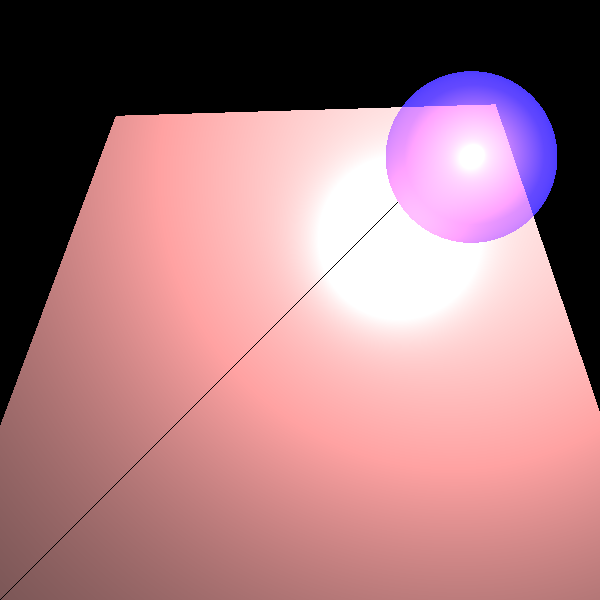
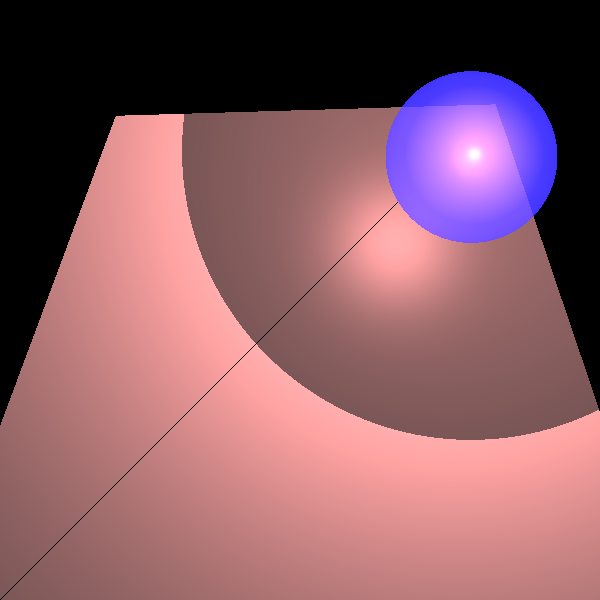
תרגיל 7 סופי

Changed region(s): [[0.3, 0.12, 1.0, 0.75]]

diff --git a/src/renderer/BasicRayTracer.java b/src/renderer/BasicRayTracer.java
@@ -24,28 +24,24 @@ public class BasicRayTracer extends RayTracerBase {
      * @param scene
      */
     public BasicRayTracer(Scene scene) {
+
         super(scene);
     }
 
     /**
      * this methode get ray, and calculate the color of the closest intersection
-     *
      * @param ray
      * @return the colour of the closest point
      */
     @Override
     public Color traceRay(Ray ray) {
-//        List<GeoPoint> intersections = _scene.geometries.findGeoIntersections(ray);
-//        if (intersections == null) return _scene.backGroundColor;
-//        GeoPoint closestPoint = ray.findClosestGeoPoint(intersections);
-//        return calcColor(closestPoint, ray);
-        GeoPoint closestPoint =findClosestIntersection( ray);
+        GeoPoint closestPoint = findClosestIntersection(ray);
         if (closestPoint == null) return _scene.backGroundColor;
         return calcColor(closestPoint, ray);
     }
 
     /**
-     * calculate the color of the point
+     * calculate the ambientLight of the point
      *
      * @param geoPoint
      * @return the color of the point
@@ -55,14 +51,30 @@ public class BasicRayTracer extends RayTracerBase {
                 .add(_scene.ambientLight.getIntensity());
     }
 
+    /**
+     * calculate the color of the point according to local and global effects
+     * @param geoPoint
+     * @param ray
+     * @param level
+     * @param k
+     * @return
+     */
     private Color calcColor(GeoPoint geoPoint, Ray ray, int level, double k) {
         Color color = geoPoint.geometry.getEmission();
-        color = color.add(calcLocalEffects(geoPoint, ray));
+        color = color.add(calcLocalEffects(geoPoint, ray,k));
         return 1 == level ? color : color.add(calcGlobalEffects(geoPoint, ray, level, k));
 
     }
 
-        private Color calcGlobalEffects(GeoPoint geoPoint, Ray ray, int level, double k) {
+    /**
+     * calculate the color of point according to refraction and reflection
+     * @param geoPoint
+     * @param ray
+     * @param level depth of recursion
+     * @param k intensity of the refraction or reflection
+     * @return
+     */
+    private Color calcGlobalEffects(GeoPoint geoPoint, Ray ray, int level, double k) {
         Color color = Color.BLACK;
         Material material = geoPoint.geometry.getMaterial();
         double kr = material.kR;
@@ -85,51 +97,44 @@ public class BasicRayTracer extends RayTracerBase {
         }
         return color;
     }
-//    private Color calcGlobalEffects(GeoPoint gp, Ray ray, int level, double k) {
-//        Color color = Color.BLACK;
-//        Vector n = gp.geometry.getNormal(gp.point);
-//        Material material = gp.geometry.getMaterial();
-//        double kkr = k * material.kR;
-//        if (kkr > MIN_CALC_COLOR_K) {
-//            color = calcGlobalEffect(constructReflectedRay(gp, ray),
-//                    level, material.kR, kkr);
-//        }
-//        double kkt = k * material.kT;
-//        if (kkt > MIN_CALC_COLOR_K) {
-//            color = color.add(calcGlobalEffect(constructRefractedRay(gp, ray), level, material.kT, kkt));
-//        }
-//        return color;
-//    }
-//
-//    private Color calcGlobalEffect(Ray ray, int level, double kx, double kkx) {
-//        GeoPoint gp = ray.findClosestGeoPoint(_scene.geometries.findGeoIntersections(ray));
-//        //findClosestIntersection (ray);
-//        return (gp == null ? _scene.backGroundColor : calcColor(gp, ray, level - 1, kkx)).scale(kx);
-//    }
 
+    /**
+     * calculate the Refracted Ray to the point
+     * @param geoPoint
+     * @param ray
+     * @return
+     */
     private Ray constructRefractedRay(GeoPoint geoPoint, Ray ray) {
-        Vector n=geoPoint.geometry.getNormal(geoPoint.point);
-        return new Ray(geoPoint.point, ray.getDir(),n);
+        Vector n = geoPoint.geometry.getNormal(geoPoint.point);
+        return new Ray(geoPoint.point, ray.getDir(), n);
     }
 
+    /**
+     * calculate the Reflected Ray to the point
+     * @param geoPoint
+     * @param ray
+     * @return
+     */
     private Ray constructReflectedRay(GeoPoint geoPoint, Ray ray) {
         Vector n = geoPoint.geometry.getNormal(geoPoint.point);
         Vector v = ray.getDir();
         //if v is orthogonal to n the  reflected ray direction is in the same  direction of v
         if (alignZero(n.dotProduct(v)) == 0) {
-            return new Ray(geoPoint.point, v,n);
+            return new Ray(geoPoint.point, v, n);
         }
         Vector r = v.subtract(n.scale(2 * v.dotProduct(n)));//the reflected ray
-        return new Ray(geoPoint.point, r,n);
+        return new Ray(geoPoint.point, r, n);
     }
-//    private Color calcColor(GeoPoint geoPoint, Ray ray) {
-//
-//        return _scene.ambientLight.getIntensity()
-//                .add(geoPoint.geometry.getEmission())
-//                .add(calcLocalEffects(geoPoint, ray));
-//    }
 
-    private Color calcLocalEffects(GeoPoint geoPoint, Ray ray) {
+
+    /**
+     * calculate the color of point according to diffusion, specular and shininess
+     * @param geoPoint
+     * @param ray
+     * @param k
+     * @return
+     */
+    private Color calcLocalEffects(GeoPoint geoPoint, Ray ray,double k) {
         Vector v = ray.getDir();
         Vector n = geoPoint.geometry.getNormal(geoPoint.point);
         double nv = alignZero(n.dotProduct(v));
@@ -142,8 +147,9 @@ public class BasicRayTracer extends RayTracerBase {
             Vector l = lightSource.getL(geoPoint.point);
             double nl = alignZero(n.dotProduct(l));
             if (nl * nv > 0) { // sign(nl) == sing(nv)
-                if (unshaded(lightSource, geoPoint)) {
-                    Color lightIntensity = lightSource.getIntensity(geoPoint.point);
+                double ktr=transparency(lightSource,l,n,geoPoint);
+                if (ktr * k > MIN_CALC_COLOR_K) {
+                    Color lightIntensity = lightSource.getIntensity(geoPoint.point).scale(ktr);
                     color = color.add(calcDiffusive(kd, l, n, lightIntensity),
                             calcSpecular(ks, l, n, v, nShininess, lightIntensity));
                 }
@@ -152,24 +158,48 @@ public class BasicRayTracer extends RayTracerBase {
         return color;
     }
 
-    private boolean unshaded(LightSource lightSource, GeoPoint geoPoint) {
-        Point3D point = geoPoint.point;
-        Vector l = lightSource.getL(point).scale(-1).normalized();
-        Vector n = geoPoint.geometry.getNormal(point);
-//        Vector delta = n.scale(n.dotProduct(l) > 0 ? DELTA : -DELTA);
-//        point = point.add(delta);
-        Ray lightRay = new Ray(point, l,n);//ray from the point to the ray
-        List<GeoPoint> intersections = _scene.geometries.findGeoIntersections(lightRay, lightSource.getDistance(point));
-        if (intersections == null) {
-            return true;
-        }
-        for (var gp : intersections) {//if all kt is 0, the point is unshaded
-            if (gp.geometry.getMaterial().kT != 0)
-                return true;
-        }
-        return false;
-    }
+//    private boolean unshaded(LightSource lightSource, GeoPoint geoPoint) {
+//        Point3D point = geoPoint.point;
+//        Vector l = lightSource.getL(point).scale(-1).normalized();
+//        Vector n = geoPoint.geometry.getNormal(point);
+//        Ray lightRay = new Ray(point, l, n);//ray from the point to the ray
+//        List<GeoPoint> intersections = _scene.geometries.findGeoIntersections(lightRay, lightSource.getDistance(point));
+//        if (intersections == null) {
+//            return true;
+//        }
+//        for (var gp : intersections) {//if all kt is 0, the point is unshaded
+//            if (gp.geometry.getMaterial().kT != 0)
+//                return true;
+//        }
+//        return false;
+//    }
 
+    /**
+     * calculate the intensity of lightSource on point
+     * @param lightSource
+     * @param l light direction
+     * @param n normal of the point
+     * @param geoPoint
+     * @return the intensity of lightSource on point
+     */
+    private double transparency(LightSource lightSource, Vector l, Vector n, GeoPoint geoPoint) {
+        Point3D point = geoPoint.point;
+        Vector lightDirection = l.scale(-1).normalize();
+        Ray lightRay = new Ray(point, lightDirection, n);//ray from the point to the ray
+        double lightDistance = lightSource.getDistance(point);
+        List<GeoPoint> intersections = _scene.geometries.findGeoIntersections(lightRay, lightDistance);
+        if (intersections == null) {
+            return 1d;
+        }
+        double ktr = 1d;
+        for (var gp : intersections) {//if all kt is 0, the point is unshaded
+            ktr *= gp.geometry.getMaterial().kT;
+            if (ktr < MIN_CALC_COLOR_K) {
+                return 0d;
+            }
+        }
+        return ktr;
+    }
 
     /**
      * calculate the specular color of specific light source
@@ -204,11 +234,10 @@ public class BasicRayTracer extends RayTracerBase {
     }
 
     /**
-     *
      * @param ray
      * @return the closest geoPoint intersection
      */
-    private GeoPoint findClosestIntersection(Ray ray){
+    private GeoPoint findClosestIntersection(Ray ray) {
         return ray.findClosestGeoPoint(_scene.geometries.findGeoIntersections(ray));
     }
 }

diff --git a/tests/renderer/PictureTest.java b/tests/renderer/PictureTest.java
@@ -1,0 +1,115 @@
+package renderer;
+
+import elements.AmbientLight;
+import elements.Camera;
+import elements.PointLight;
+import elements.SpotLight;
+import geometries.Geometries;
+import geometries.Plane;
+import geometries.Sphere;
+import geometries.Triangle;
+import org.junit.jupiter.api.Test;
+import primitives.Color;
+import primitives.Material;
+import primitives.Point3D;
+import primitives.Vector;
+import scene.Scene;
+
+public class PictureTest {
+    @Test
+    public void transparancyRefractionReflection(){
+         Scene scene = new Scene("Test scene");
+         Camera camera = new Camera(new Point3D(-2, 2, 0), new Vector(1, -0.5, 0), new Vector(0, 0, 1)) //
+                .setViewPlaneSize(10, 10).setDistance(5);
+         scene.geometries=new Geometries(
+                 new Triangle(new Point3D(1.17,0.04,-1.5), new Point3D(0.78047,0.70034,0), new Point3D(1.62883,0.6836,0))
+                         .setEmission(new Color(0,0,255)).setMaterial(new Material().setkD(0.5)//
+                         .setkS(0.5).setnShininess(30).setkR(0.5).setkT(0.25)),//JCF,//JEF
+                 new Triangle(new Point3D(1.17,0.04,-1.5), new Point3D(0.78047,0.70034,0), new Point3D(0.36,0,0))
+                         .setEmission(new Color(0,0,255)).setMaterial(new Material().setkD(0.5)//
+                         .setkS(0.5).setnShininess(30).setkR(0.5).setkT(0.25)),//JCF,//JED
+                 new Triangle(new Point3D(1.17,0.04,-1.5), new Point3D(0.77765,-0.58962,0), new Point3D(0.36,0,0))
+                         .setEmission(new Color(0,0,255)).setMaterial(new Material().setkD(0.5)//
+                         .setkS(0.5).setnShininess(30).setkR(0.5).setkT(0.25)),//JCF,//JAD
+                 new Triangle(new Point3D(1.17,0.04,-1.5), new Point3D(0.77765,-0.58962,0), new Point3D (1.56646,-0.61367,0))
+                         .setEmission(new Color(0,0,255)).setMaterial(new Material().setkD(0.5)//
+                         .setkS(0.5).setnShininess(30).setkR(0.5).setkT(0.25)),//JCF,//JAB
+                 new Triangle(new Point3D(1.17,0.04,-1.5), new Point3D(2,0,0), new Point3D (1.56646,-0.61367,0))
+                         .setEmission(new Color(0,0,255)).setMaterial(new Material().setkD(0.5)//
+                         .setkS(0.5).setnShininess(30).setkR(0.5).setkT(0.25)),//JCF,//JCB
+        new Triangle(new Point3D(1.17,0.04,-1.5), new Point3D(2,0,0), new Point3D (1.62883,0.6836,0))
+                 .setEmission(new Color(0,0,255)).setMaterial(new Material().setkD(0.5)//
+                        .setkS(0.5).setnShininess(30).setkR(0.5).setkT(0.25)),//JCF
+        new Triangle(new Point3D(1.2, 0.69, 0), new Point3D(1.41,0.38,0.5), new Point3D(1.62883,0.6836,0))
+                .setEmission(new Color(0,0,255)).setMaterial(new Material().setkD(0.5)//
+                .setkS(0.5).setnShininess(30).setkR(0.5).setkT(0.25)),//JCF,//QNF
+        new Triangle(new Point3D(1.2, 0.69, 0), new Point3D(1.41,0.38,0.5), new Point3D(0.97,0.39,0.5))
+                .setEmission(new Color(0,0,255)).setMaterial(new Material().setkD(0.5)//
+                .setkS(0.5).setnShininess(30).setkR(0.5).setkT(0.25)),//JCF,//QNM
+        new Triangle(new Point3D(1.2, 0.69, 0), new Point3D(0.78047,0.70034,0), new Point3D (0.97,0.39,0.5))
+                .setEmission(new Color(0,0,255)).setMaterial(new Material().setkD(0.5)//
+                .setkS(0.5).setnShininess(30).setkR(0.5).setkT(0.25)),//JCF,//QEM
+        new Triangle(new Point3D(0.57, 0.35, 0), new Point3D(0.78047,0.70034,0), new Point3D (0.97,0.39,0.5))
+                .setEmission(new Color(0,0,255)).setMaterial(new Material().setkD(0.5)//
+                .setkS(0.5).setnShininess(30).setkR(0.5).setkT(0.25)),//JCF,//REM
+        new Triangle(new Point3D(0.57, 0.35, 0), new Point3D(0.81,0,0.5), new Point3D (0.97,0.39,0.5))
+                .setEmission(new Color(0,0,255)).setMaterial(new Material().setkD(0.5)//
+                .setkS(0.5).setnShininess(30).setkR(0.5).setkT(0.25)),//JCF,//RLM
+        new Triangle(new Point3D(0.57, 0.35, 0), new Point3D(0.81,0,0.5), new Point3D (0.36,0,0))
+                .setEmission(new Color(0,0,255)).setMaterial(new Material().setkD(0.5)//
+                .setkS(0.5).setnShininess(30).setkR(0.5).setkT(0.25)),//JCF,//RLD
+        new Triangle(new Point3D(0.57, -0.29, 0), new Point3D(0.81,0,0.5), new Point3D (0.36,0,0))
+                .setEmission(new Color(0,0,255)).setMaterial(new Material().setkD(0.5)//
+                .setkS(0.5).setnShininess(30).setkR(0.5).setkT(0.25)),//JCF,//SLD
+        new Triangle(new Point3D(0.57, -0.29, 0), new Point3D(0.81,0,0.5), new Point3D (0.97,-0.28,0.5))
+                .setEmission(new Color(0,0,255)).setMaterial(new Material().setkD(0.5)//
+                .setkS(0.5).setnShininess(30).setkR(0.5).setkT(0.25)),//JCF,//SLK
+        new Triangle(new Point3D(0.57, -0.29, 0), new Point3D(0.77765,-0.58962,0), new Point3D (0.97,-0.28,0.5))
+                .setEmission(new Color(0,0,255)).setMaterial(new Material().setkD(0.5)//
+                .setkS(0.5).setnShininess(30).setkR(0.5).setkT(0.25)),//JCF,//SAK
+        new Triangle(new Point3D(1.17, -0.6, 0), new Point3D(0.77765,-0.58962,0), new Point3D (0.97,-0.28,0.5))
+                .setEmission(new Color(0,0,255)).setMaterial(new Material().setkD(0.5)//
+                .setkS(0.5).setnShininess(30).setkR(0.5).setkT(0.25)),//JCF,//TAK
+        new Triangle(new Point3D(1.17, -0.6, 0), new Point3D(1.37,-0.29,0.5), new Point3D (0.97,-0.28,0.5))
+                .setEmission(new Color(0,0,255)).setMaterial(new Material().setkD(0.5)//
+                .setkS(0.5).setnShininess(30).setkR(0.5).setkT(0.25)),//JCF,//TPK
+        new Triangle(new Point3D(1.17, -0.6, 0), new Point3D(1.37,-0.29,0.5), new Point3D (1.56646,-0.61367,0))
+                .setEmission(new Color(0,0,255)).setMaterial(new Material().setkD(0.5)//
+                .setkS(0.5).setnShininess(30).setkR(0.5).setkT(0.25)),//JCF,//TPB
+        new Triangle(new Point3D(1.78, -0.31, 0), new Point3D(1.37,-0.29,0.5), new Point3D (1.56646,-0.61367,0))
+                .setEmission(new Color(0,0,255)).setMaterial(new Material().setkD(0.5)//
+                .setkS(0.5).setnShininess(30).setkR(0.5).setkT(0.25)),//JCF,//UPB
+        new Triangle(new Point3D(1.78, -0.31, 0), new Point3D(1.37,-0.29,0.5), new Point3D (1.59,0,0.5))
+                .setEmission(new Color(0,0,255)).setMaterial(new Material().setkD(0.5)//
+                .setkS(0.5).setnShininess(30).setkR(0.5).setkT(0.25)),//JCF,//UPO
+        new Triangle(new Point3D(1.78, -0.31, 0), new Point3D(2,0,0), new Point3D (1.59,0,0.5))
+                .setEmission(new Color(0,0,255)).setMaterial(new Material().setkD(0.5)//
+                .setkS(0.5).setnShininess(30).setkR(0.5).setkT(0.25)),//JCF,//UCO
+        new Triangle(new Point3D(1.81,0.34, 0), new Point3D(2,0,0), new Point3D (1.59,0,0.5))
+                .setEmission(new Color(195,252,253)).setMaterial(new Material().setkD(0.5)//
+                .setkS(0.5).setnShininess(30).setkR(0.5).setkT(0.25)),//JCF,//ICO
+        new Triangle(new Point3D(1.81,0.34, 0), new Point3D(1.41,0.38,0.5), new Point3D (1.59,0,0.5))
+                .setEmission(new Color(0,0,255)).setMaterial(new Material().setkD(0.5)//
+                .setkS(0.5).setnShininess(30).setkR(0.5).setkT(0.25)),//JCF,//INO
+        new Triangle(new Point3D(1.81,0.34, 0), new Point3D(1.41,0.38,0.5), new Point3D (1.62883,0.6836,0))
+                .setEmission(new Color(0,0,255)).setMaterial(new Material().setkD(0.5)//
+                .setkS(0.5).setnShininess(30).setkR(0.5).setkT(0.25)),
+                 new Plane(new Point3D(15,0,0),new Vector(1,0,0))
+                         .setMaterial(new Material()//
+                         .setkS(0.5).setnShininess(30).setkR(1)),
+                 new Sphere(2.5,new Point3D(1.17,0.04,-5))
+                         .setEmission(new Color(0,0,255)).setMaterial(new Material().setkD(0.5)//
+                         .setkS(0.5).setnShininess(30).setkT(0.95)));
+         scene.setAmbientLight(new AmbientLight(new Color(java.awt.Color.WHITE), 0.15));
+         scene.lights.add(new PointLight(new Color(java.awt.Color.YELLOW),new Point3D (-50,0,0)));
+        scene.lights.add(new SpotLight(new Color(700, 400, 400), new Point3D(1.17,0.04,-5), new Vector(1, -0.5, 0)) //
+                .setKl(4E-4).setKq(2E-5));
+
+        Render render = new Render(). //
+                setImageWriter(new ImageWriter("PictureTest", 400, 400)) //
+                .setCamera(camera) //
+                .setRayTracer(new BasicRayTracer(scene));
+        render.renderImage();
+        render.writeToImage();
+    }
+}
